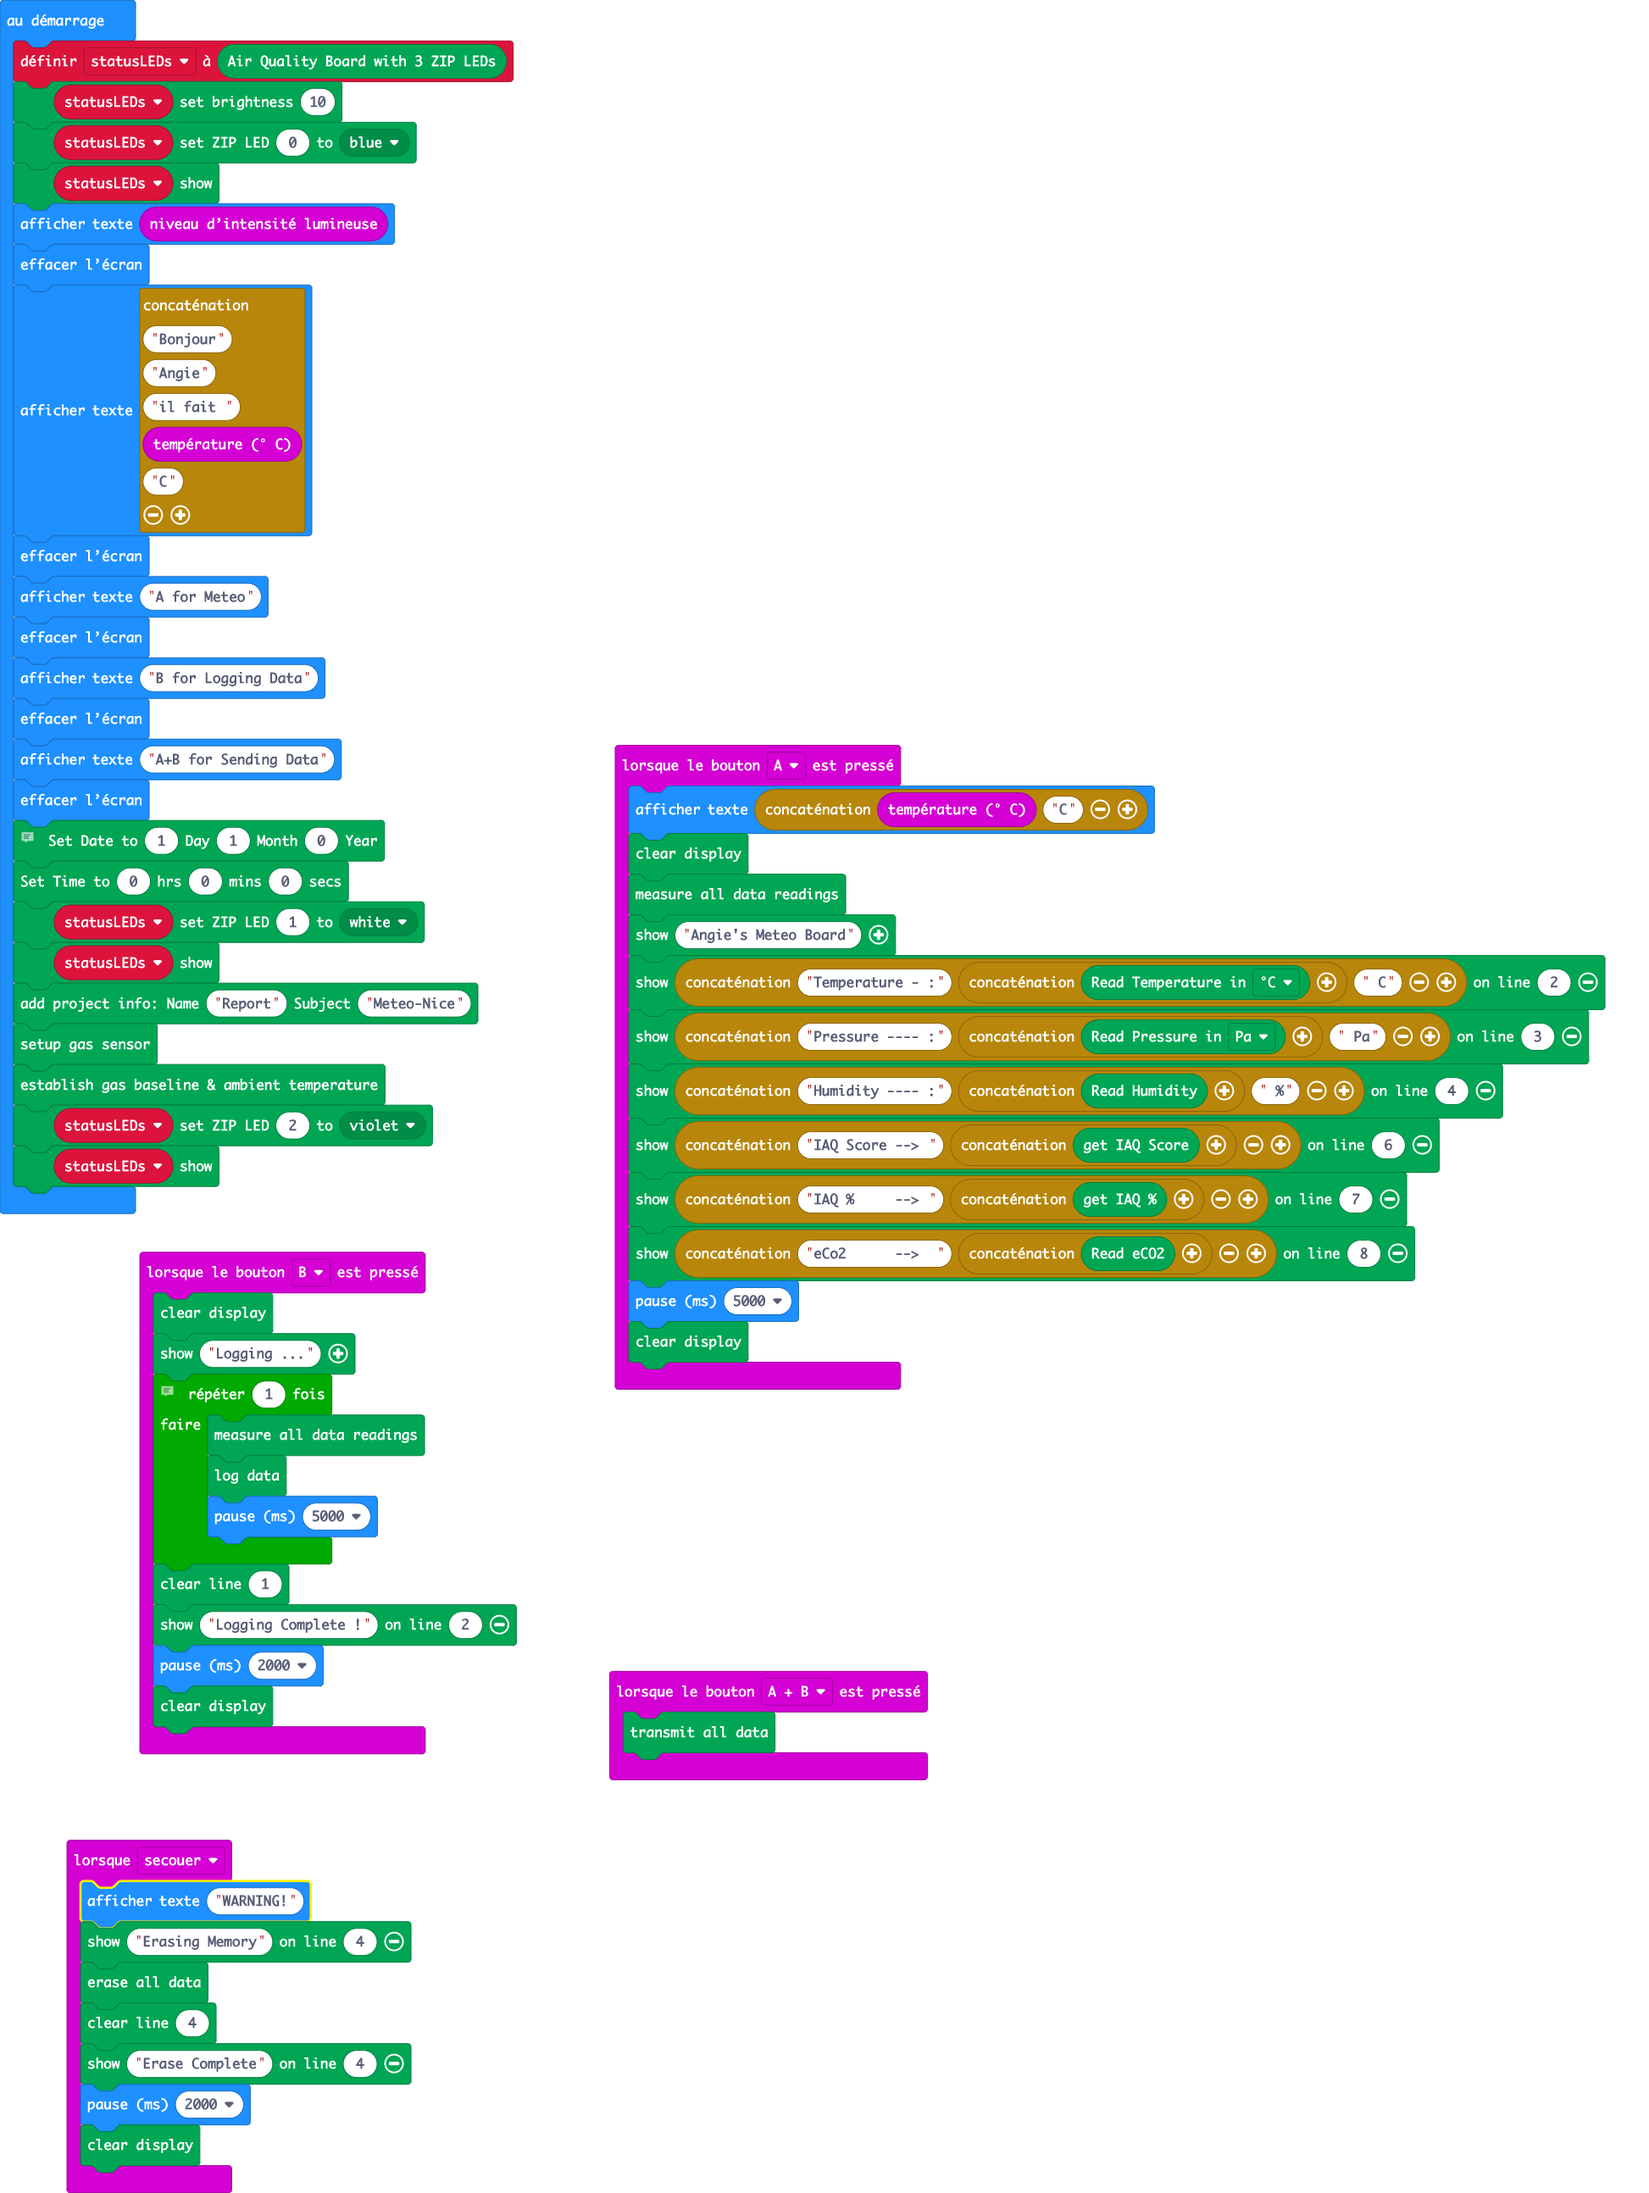
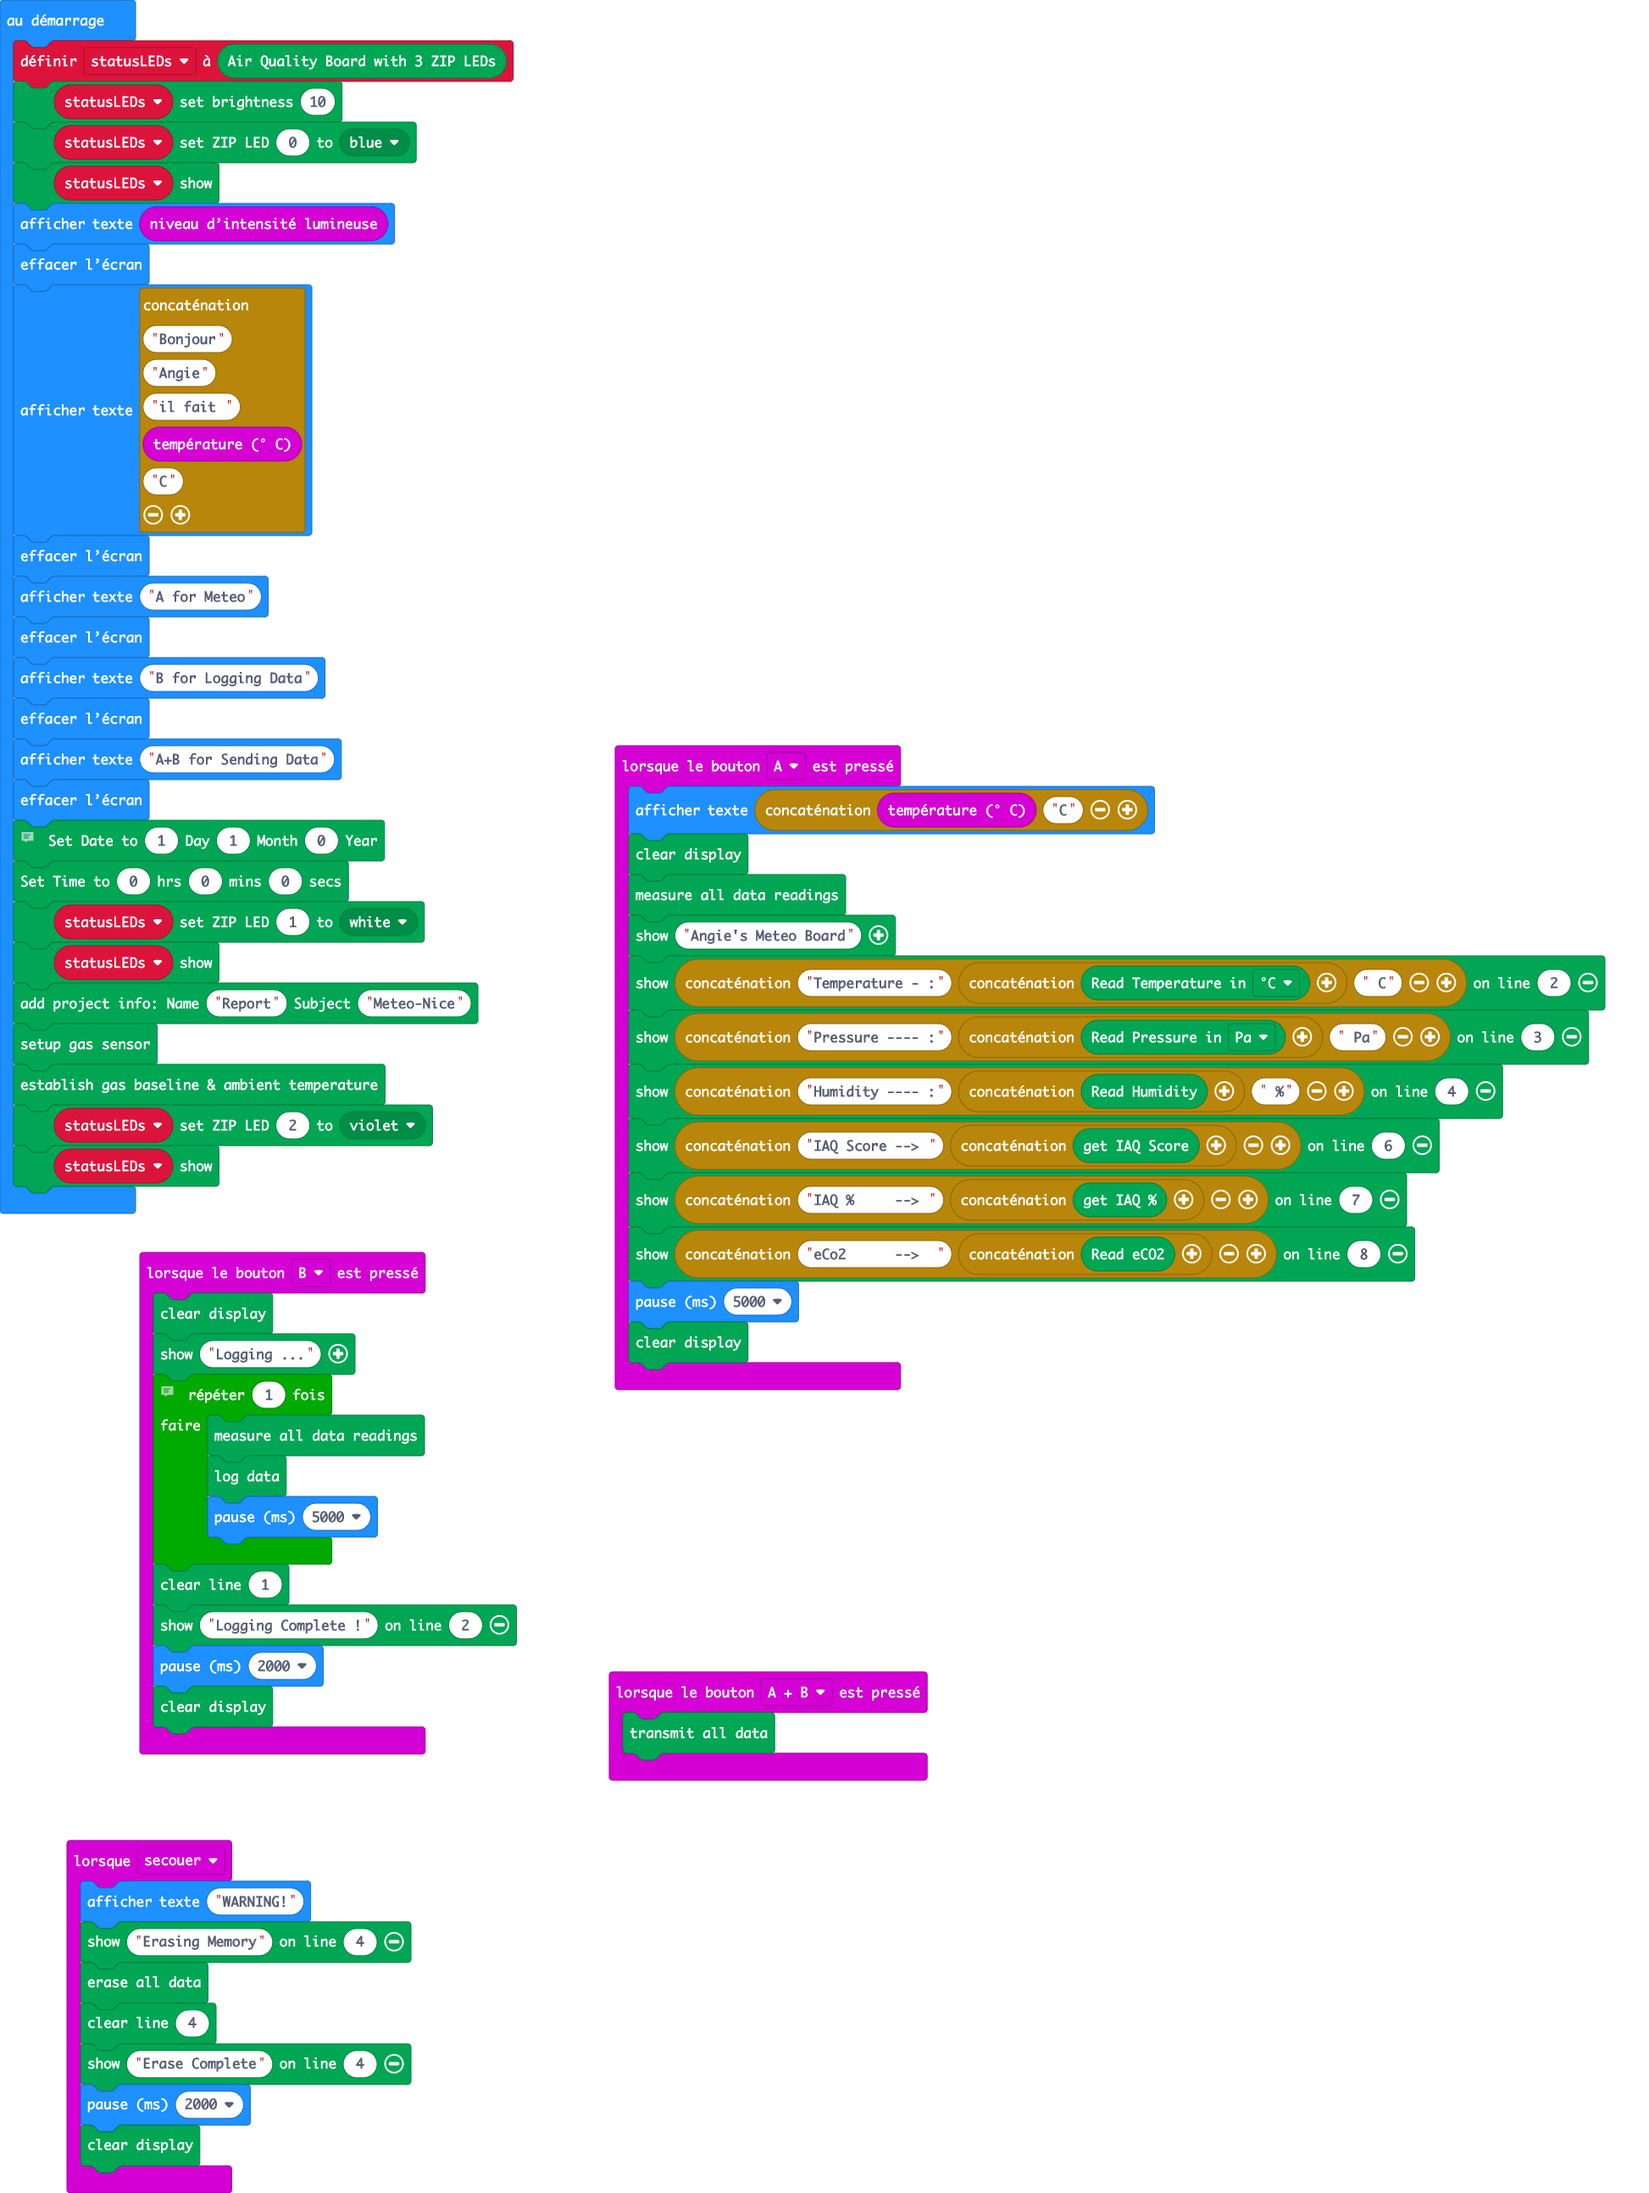
python code upgraded

diff --git a/main.ts b/main.ts
@@ -1,24 +1,24 @@
-input.onButtonPressed(Button.A, function () {
-    basic.showString("" + input.temperature() + "C")
+input.onButtonPressed(Button.A, function on_button_pressed_a() {
+    basic.showString("" + ("" + input.temperature()) + "C")
     kitronik_air_quality.clear()
     kitronik_air_quality.measureData()
     kitronik_air_quality.show("Angie's Meteo Board")
-    kitronik_air_quality.show("Temperature - :" + ("" + kitronik_air_quality.readTemperature(kitronik_air_quality.TemperatureUnitList.C)) + " C", 2)
-    kitronik_air_quality.show("Pressure ---- :" + ("" + kitronik_air_quality.readPressure(kitronik_air_quality.PressureUnitList.Pa)) + " Pa", 3)
-    kitronik_air_quality.show("Humidity ---- :" + ("" + kitronik_air_quality.readHumidity()) + " %", 4)
-    kitronik_air_quality.show("IAQ Score --> " + ("" + kitronik_air_quality.getAirQualityScore()), 6)
-    kitronik_air_quality.show("IAQ %     --> " + ("" + kitronik_air_quality.getAirQualityPercent()), 7)
-    kitronik_air_quality.show("eCo2      -->  " + ("" + kitronik_air_quality.readeCO2()), 8)
+    kitronik_air_quality.show("Temperature - :" + ("" + ("" + kitronik_air_quality.readTemperature(kitronik_air_quality.TemperatureUnitList.C))) + " C", 2)
+    kitronik_air_quality.show("Pressure ---- :" + ("" + ("" + kitronik_air_quality.readPressure(kitronik_air_quality.PressureUnitList.Pa))) + " Pa", 3)
+    kitronik_air_quality.show("Humidity ---- :" + ("" + ("" + kitronik_air_quality.readHumidity())) + " %", 4)
+    kitronik_air_quality.show("IAQ Score --> " + ("" + ("" + kitronik_air_quality.getAirQualityScore())), 6)
+    kitronik_air_quality.show("IAQ %     --> " + ("" + ("" + kitronik_air_quality.getAirQualityPercent())), 7)
+    kitronik_air_quality.show("eCo2      -->  " + ("" + ("" + kitronik_air_quality.readeCO2())), 8)
     basic.pause(5000)
     kitronik_air_quality.clear()
 })
-input.onButtonPressed(Button.AB, function () {
+input.onButtonPressed(Button.AB, function on_button_pressed_ab() {
     kitronik_air_quality.sendAllData()
 })
-input.onButtonPressed(Button.B, function () {
+input.onButtonPressed(Button.B, function on_button_pressed_b() {
     kitronik_air_quality.clear()
     kitronik_air_quality.show("Logging ...")
-    // set to 1 time just for debugging
+    //  set to 1 time just for debugging
     for (let index = 0; index < 1; index++) {
         kitronik_air_quality.measureData()
         kitronik_air_quality.logData()
@@ -29,7 +29,7 @@ input.onButtonPressed(Button.B, function () {
     basic.pause(2000)
     kitronik_air_quality.clear()
 })
-input.onGesture(Gesture.Shake, function () {
+input.onGesture(Gesture.Shake, function on_gesture_shake() {
     basic.showString("WARNING!")
     kitronik_air_quality.show("Erasing Memory", 4)
     kitronik_air_quality.eraseData()
@@ -42,9 +42,9 @@ let statusLEDs = kitronik_air_quality.createAirQualityZIPDisplay()
 statusLEDs.setBrightness(10)
 statusLEDs.setZipLedColor(0, kitronik_air_quality.colors(ZipLedColors.Blue))
 statusLEDs.show()
-basic.showString("" + (input.lightLevel()))
+basic.showString("" + ("" + input.lightLevel()))
 basic.clearScreen()
-basic.showString("Bonjour" + "Angie" + "il fait " + input.temperature() + "C")
+basic.showString("Bonjour" + "Angie" + "il fait " + ("" + input.temperature()) + "C")
 basic.clearScreen()
 basic.showString("A for Meteo")
 basic.clearScreen()
@@ -52,7 +52,7 @@ basic.showString("B for Logging Data")
 basic.clearScreen()
 basic.showString("A+B for Sending Data")
 basic.clearScreen()
-// Date and Time are not really persistant and will be reseted to harcoded values on turn On
+//  Date and Time are not really persistant and will be reseted to harcoded values on turn On
 kitronik_air_quality.setDate(1, 1, 0)
 kitronik_air_quality.setTime(0, 0, 0)
 statusLEDs.setZipLedColor(1, kitronik_air_quality.colors(ZipLedColors.White))

diff --git a/main.py b/main.py
@@ -1,4 +1,5 @@
 def on_button_pressed_a():
+    basic.show_string("" + str(input.temperature()) + "C")
     kitronik_air_quality.clear()
     kitronik_air_quality.measure_data()
     kitronik_air_quality.show("Angie's Meteo Board")
@@ -14,6 +15,8 @@ def on_button_pressed_a():
         7)
     kitronik_air_quality.show("eCo2      -->  " + ("" + str(kitronik_air_quality.reade_co2())),
         8)
+    basic.pause(5000)
+    kitronik_air_quality.clear()
 input.on_button_pressed(Button.A, on_button_pressed_a)
 
 def on_button_pressed_ab():
@@ -23,7 +26,8 @@ input.on_button_pressed(Button.AB, on_button_pressed_ab)
 def on_button_pressed_b():
     kitronik_air_quality.clear()
     kitronik_air_quality.show("Logging ...")
-    for index in range(25):
+    # set to 1 time just for debugging
+    for index in range(1):
         kitronik_air_quality.measure_data()
         kitronik_air_quality.log_data()
         basic.pause(5000)
@@ -34,6 +38,7 @@ def on_button_pressed_b():
 input.on_button_pressed(Button.B, on_button_pressed_b)
 
 def on_gesture_shake():
+    basic.show_string("WARNING!")
     kitronik_air_quality.show("Erasing Memory", 4)
     kitronik_air_quality.erase_data()
     kitronik_air_quality.clear_line(4)
@@ -42,12 +47,27 @@ def on_gesture_shake():
     kitronik_air_quality.clear()
 input.on_gesture(Gesture.SHAKE, on_gesture_shake)
 
+statusLEDs = kitronik_air_quality.create_air_quality_zip_display()
+statusLEDs.set_brightness(10)
+statusLEDs.set_zip_led_color(0, kitronik_air_quality.colors(ZipLedColors.BLUE))
+statusLEDs.show()
+basic.show_string("" + str((input.light_level())))
+basic.clear_screen()
+basic.show_string("Bonjour" + "Angie" + "il fait " + str(input.temperature()) + "C")
+basic.clear_screen()
 basic.show_string("A for Meteo")
+basic.clear_screen()
 basic.show_string("B for Logging Data")
+basic.clear_screen()
 basic.show_string("A+B for Sending Data")
+basic.clear_screen()
 # Date and Time are not really persistant and will be reseted to harcoded values on turn On
-kitronik_air_quality.set_date(2, 12, 21)
-kitronik_air_quality.set_time(22, 30, 0)
+kitronik_air_quality.set_date(1, 1, 0)
+kitronik_air_quality.set_time(0, 0, 0)
+statusLEDs.set_zip_led_color(1, kitronik_air_quality.colors(ZipLedColors.WHITE))
+statusLEDs.show()
 kitronik_air_quality.add_project_info("Report", "Meteo-Nice")
 kitronik_air_quality.setup_gas_sensor()
 kitronik_air_quality.calc_baselines()
+statusLEDs.set_zip_led_color(2, kitronik_air_quality.colors(ZipLedColors.VIOLET))
+statusLEDs.show()
